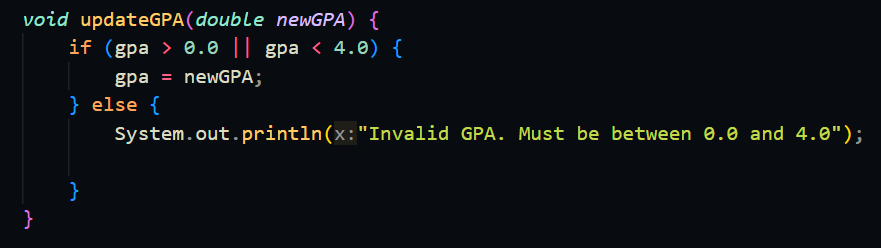
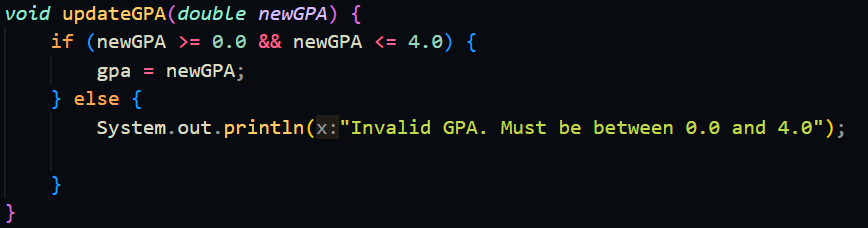
change README

diff --git a/JS02/src/Student19.java b/JS02/src/Student19.java
@@ -1,4 +1,4 @@
-public class Mahasiswa19 {
+public class Student19 {
     String studentID;
     String name;
     String className;
@@ -16,7 +16,7 @@ public class Mahasiswa19 {
     }
 
     void updateGPA(double newGPA) {
-        if (gpa > 0.0 || gpa < 4.0) {
+        if (newGPA >= 0.0 && newGPA <= 4.0) {
             gpa = newGPA;
         } else {
             System.out.println("Invalid GPA. Must be between 0.0 and 4.0");

diff --git a/JS02/src/StudentMain.java b/JS02/src/StudentMain.java
@@ -1,0 +1,13 @@
+public class StudentMain {
+    public static void main(String[] args) {
+        Student19 student1 = new Student19();
+        student1.studentID = "2441070100097";
+        student1.name = "Tiara";
+        student1.className = "TTI-1I";
+        student1.gpa = 3.8;
+        student1.print();
+        student1.changeClass("TI-2I");
+        student1.updateGPA(3.9);
+        student1.print();
+    }
+}

diff --git a/README.md b/README.md
@@ -1,0 +1,32 @@
+|  | Algorithm and Data Structure |
+|--|--|
+| NIM | 244107020123 |
+| Name |Muhammad Bima Juliansyah|
+| Class | TI - 1I |
+| Repository | [link] (https://github.com/bimamj/SEMESTER-2-ALSD.git) |
+
+# Labs #2 Object
+
+# 2.1 Experiment 1
+
+### 2.1.2 Verification Experiments Result
+
+![Screenshot](IMG/image1.png)  
+
+### 2.1.3 Question Answers
+1. Class is like a blueprint or a plan, and you can only declare class once. While object is you can declare it multiple time, it's physical entity
+2. Student class has 4 attribute 
+<ol>- Student Id</ol>
+<ol>- Student name</ol>
+<ol>- Class name</ol>
+<ol>- GPA</ol>
+
+3. Student class has 4 methods
+<ol>- Print</ol>
+<ol>- Change class</ol>
+<ol>- Update GPA</ol>
+<ol>- Evaluate</ol>
+
+4.  ![Screenshot](IMG/image2.png)
+5. The evaluate() method evaluates the student performance by evaluating the value of the students GPA by the parameter given. It returns a String value of either excellent, good, fair and poor
+
